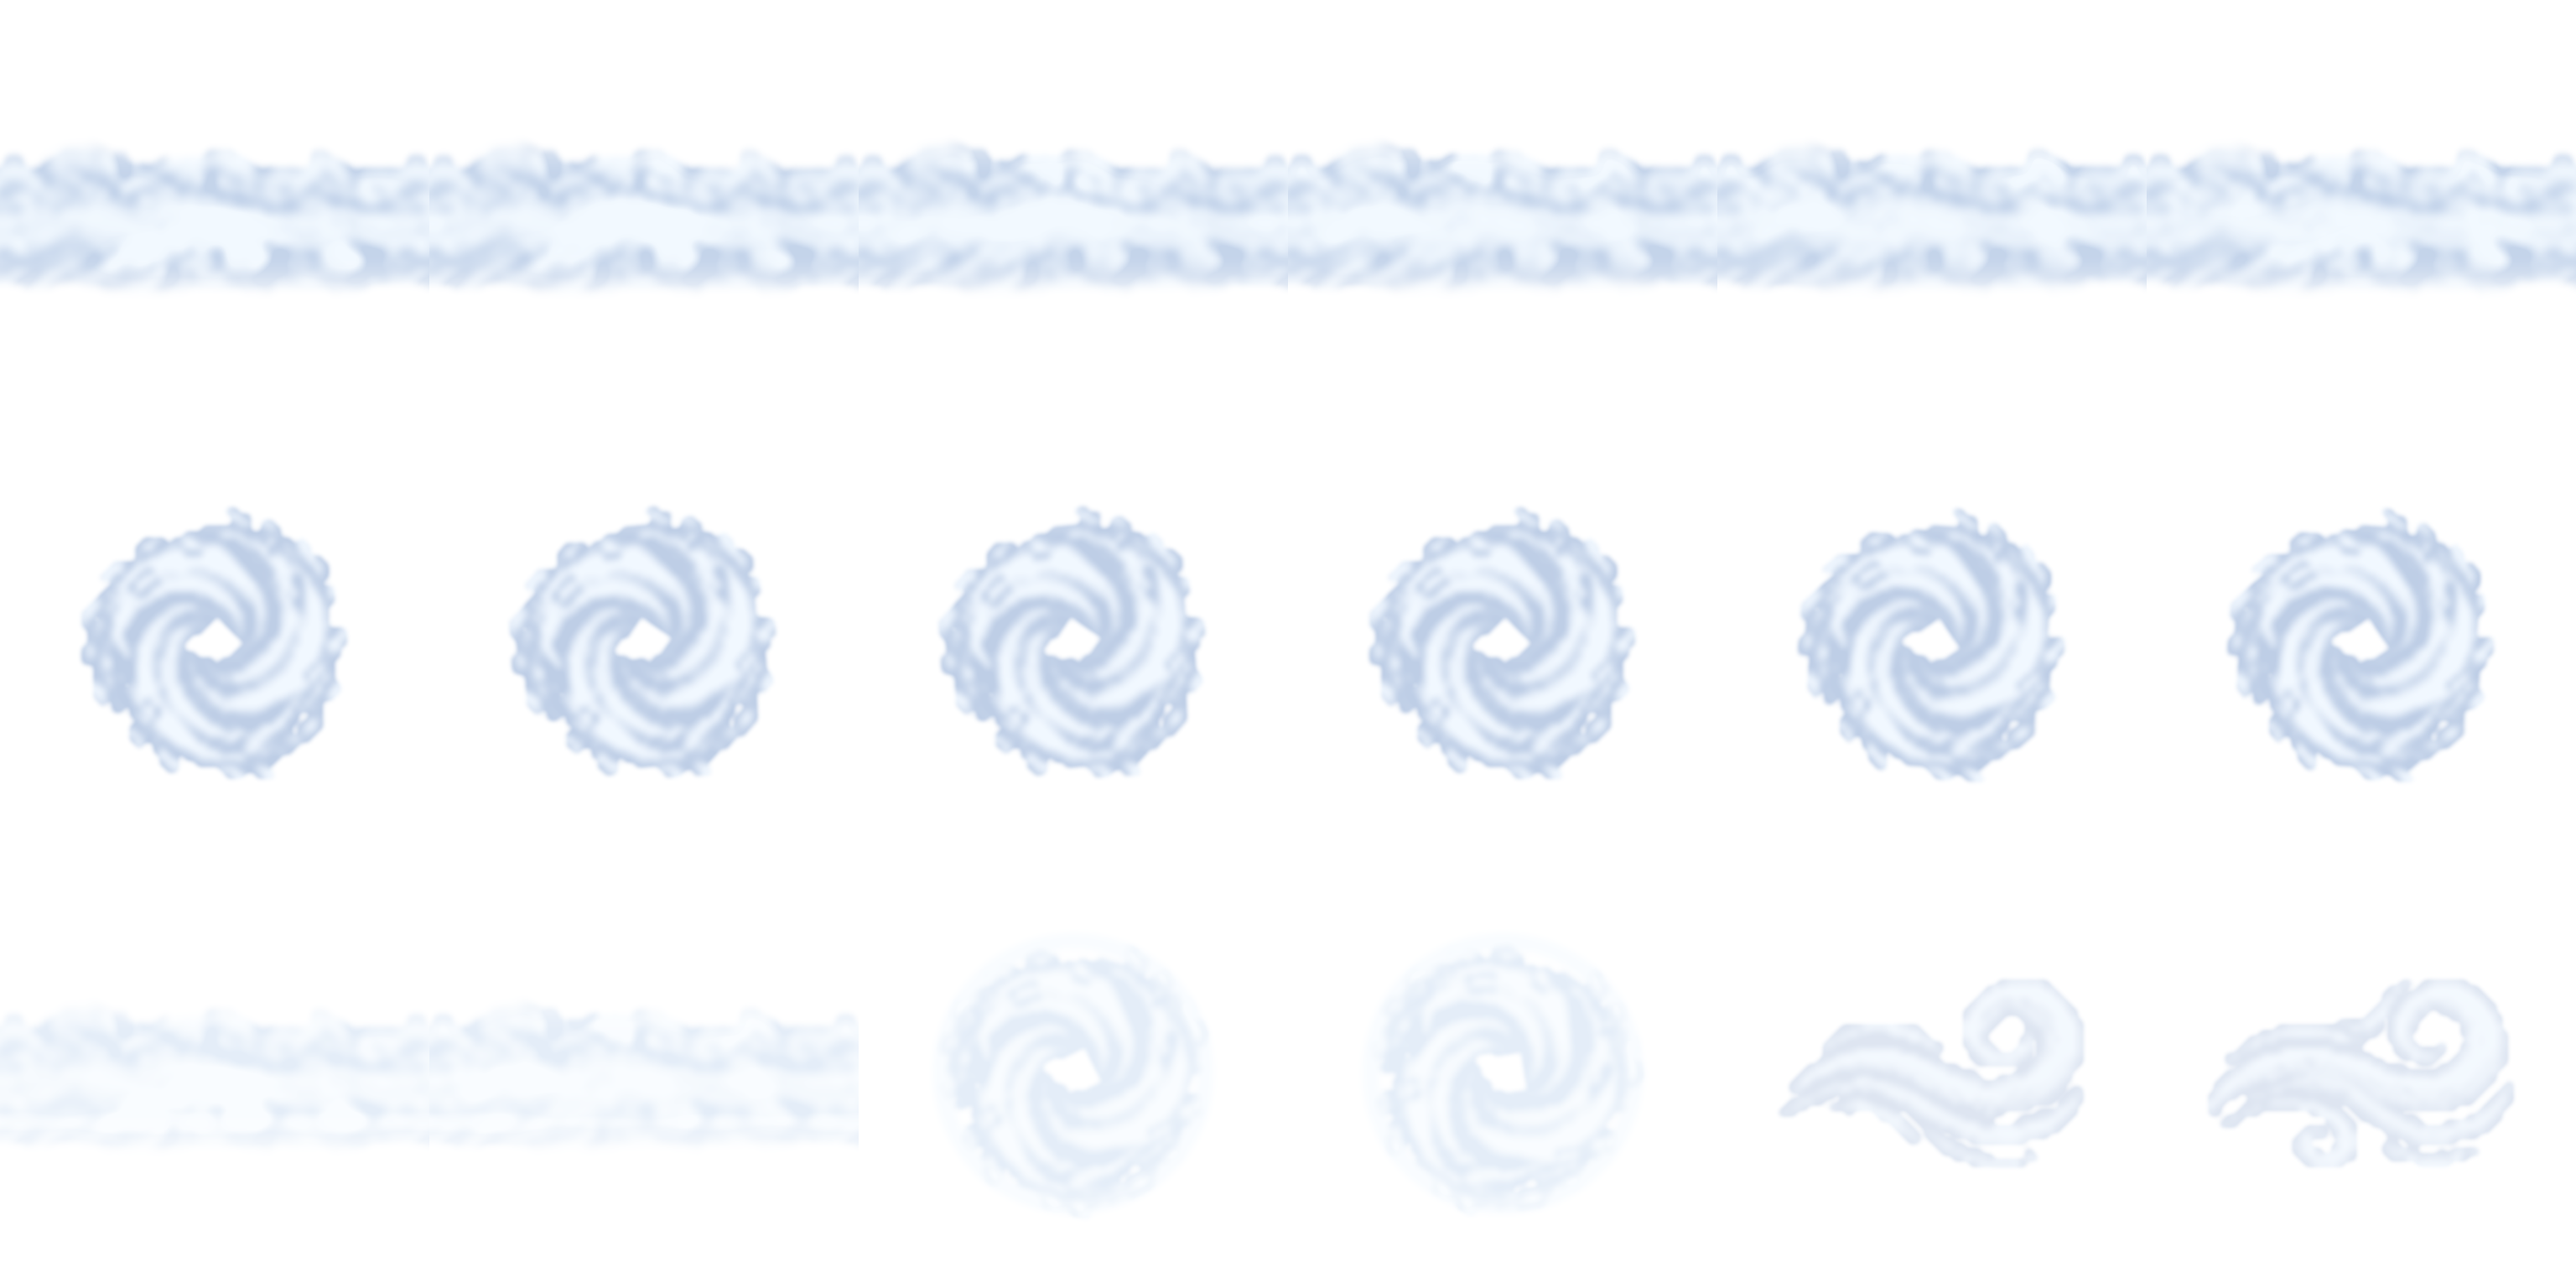
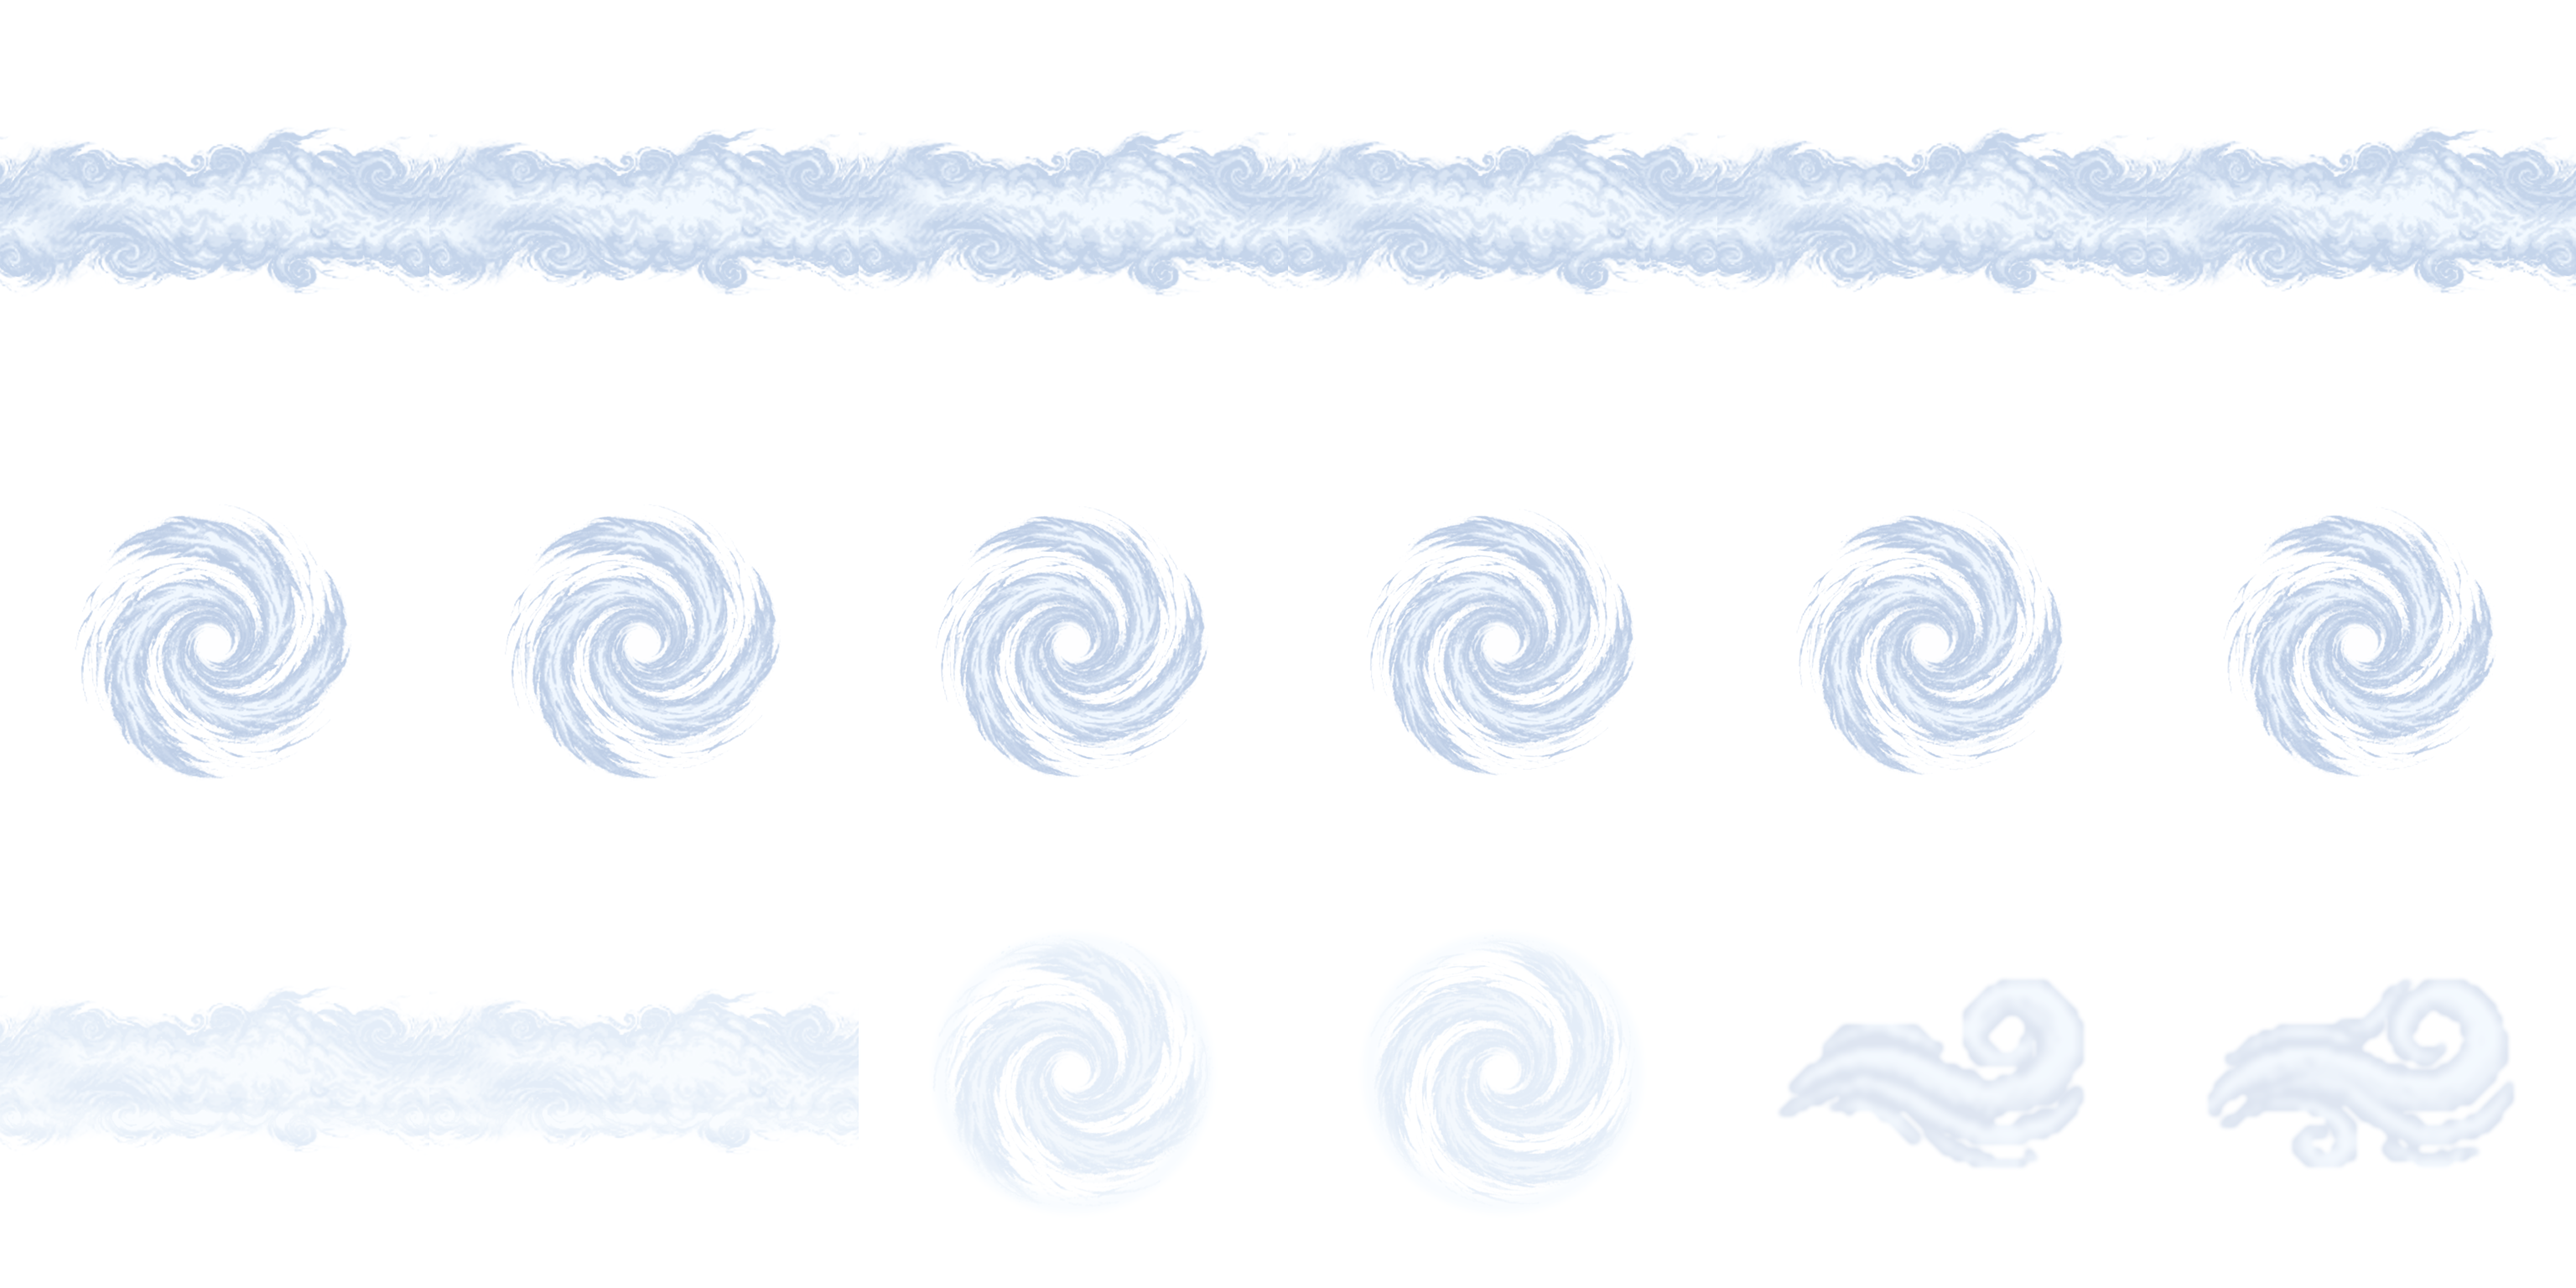
Frost storm front and snow eddy: soft painted loops (one painting each, seamless, frames never cut into each other); warnings derived from them

diff --git a/Pause/Assets/Art/Worlds/Frost/backdrop_v3/src~/frost_redraw/build_soft_weather.py b/Pause/Assets/Art/Worlds/Frost/backdrop_v3/src~/frost_redraw/build_soft_weather.py
@@ -24,6 +24,9 @@ What this builds (no new art: every drawing is the approved pick's, found by its
   * animated loops are built from ONE drawing so consecutive frames differ only a little and frame 5 -> frame 0 closes the loop:
     the front "boils" (three soft noise fields breathe in and out on 6 phases), the eddy twists (inner arms lead, outer lag, on 6
     phases); nothing pops.
+  * wx_hazard rows 0 - 1 (2026-11, user-approved): the storm front and the snow eddy are now the PAINTED loops sources/wxp_front.png /
+    sources/wxp_eddy.png (6 frames each, see loop_frames), toned with the same ice ramp at the same peak alpha 144; row 2's front / eddy
+    warnings are derived from those frames. front_tile / boil_frames / eddy_base / twist (the pick-derived loops) are kept for reference.
 
 Sheet layouts (wx_hazard / wx_ambient keep their sizes: WeatherArtTest / HazardArt / WeatherArt address them; weather doubles to
 2048, imported uncapped there by WorldBackdropImport.IsFrostSoftWeather; WeatherArtTest.FrostSoftSheets guards the gutters):
@@ -348,9 +351,61 @@ def ring(H, W, radius, width):
 # stronger (96) to stay as readable (HazardVisuals still draws it at .35 - .9 of that, rising as the hazard nears)
 WARN_PEAK = 96 / 255
 
+# The user-approved painted loops (2026-11, PixelLab paintings finished soft; scratchpad provenance wxp/made.json): each a 2880 x 480 strip
+# of 6 frames of 480 px side by side, straight RGBA. The storm front's frames are each horizontally seamless (column 479 continues into
+# column 0) and loop 5 -> 0; the snow eddy's frames are one swirl turning, centred, loop 5 -> 0.
+#   sources/wxp_front.png  <- out2/bd_frost_wxp_front/r1_0.png
+#   sources/wxp_eddy.png   <- out2/bd_frost_wxp_eddy/r1_1.png
+FRONT_VSCALE = 1.0      # the painted band's height as painted (its half-opacity body measures about the old front's: see the report)
+
+
+def loop_frames(name, n=6):
+    """The 6 frames of an approved loop strip, premultiplied float, each 480 x 480."""
+    a = np.asarray(Image.open(HERE / "sources" / f"{name}.png").convert("RGBA")).astype(np.float64) / 255.0
+    w = a.shape[1] // n
+    return [premul(a[:, k * w:(k + 1) * w]) for k in range(n)]
+
+
+def front_loop(C):
+    """The storm front's 6 frames at the content size `C` (width untouched: each frame stays seamless), scaled vertically by
+    FRONT_VSCALE about its centre. Returns (frames, band top, band bottom) - the band = the rows any frame draws in."""
+    frames = []
+    for f in loop_frames("wxp_front"):
+        if f.shape[1] != C:
+            raise ValueError(f"front frame is {f.shape[1]} px wide, the content is {C}")
+        h = int(round(f.shape[0] * FRONT_VSCALE))
+        if h != f.shape[0]:
+            f = resize(f, C, h)
+            out = np.zeros((C, C, 4))
+            if h >= C:
+                y = (h - C) // 2
+                out = f[y:y + C]
+            else:
+                y = (C - h) // 2
+                out[y:y + h] = f
+            f = out
+        frames.append(f)
+    on = np.nonzero(np.max([f[..., 3].max(1) for f in frames], 0) > 1.0 / 255)[0]
+    return frames, int(on.min()), int(on.max()) + 1
+
+
+def eddy_loop(C, D):
+    """The snow eddy's 6 frames, all scaled by one factor so the swirl (its widest extent over the loop) is `D` px across, centred
+    in the `C` px content area (the same centre on every frame: the loop does not wobble)."""
+    frames = loop_frames("wxp_eddy")
+    m = np.max([f[..., 3] for f in frames], 0) > 1.0 / 255
+    ys, xs = np.nonzero(m)
+    side = max(ys.max() + 1 - ys.min(), xs.max() + 1 - xs.min())
+    k = D / side
+    out = []
+    for f in frames:
+        n = int(round(f.shape[0] * k))
+        out.append(place_centre(resize(f, n, n), C, C))
+    return out
+
 
 def build_wx_hazard():
-    pick = src("wx_hazard")
+    pick = src("wx_hazard")       # row 2's gust curls (cols 4-5) still come from the PixelLab pick
     P, g = 512, GUTTER
     C = P - 2 * g
     sheet = np.zeros((1536, 3072, 4))
@@ -364,41 +419,41 @@ def build_wx_hazard():
             sheet[y0:y0 + C, x0 - g:x0] = straight[:, C - g:]
             sheet[y0:y0 + C, x0 + C:x0 + C + g] = straight[:, :g]
 
-    # row 0: the blizzard front loop (seamless horizontal tiles, boiling on 6 phases); peak alpha 144 as before
-    front = front_tile(pick, C)
-    hh = int(round(C * .47))
-    top = (C - hh) // 2
+    # row 0: the storm front loop (the approved painting: 6 seamless horizontal tiles); peak alpha 144 as before
+    fronts, b0, b1 = front_loop(C)
+    top, hh = b0, b1 - b0
     yy = np.arange(C).astype(float)
-    rim = (smoothstep(top - 10, top + hh * .3, yy) * smoothstep(top + hh + 10, top + hh * .7, yy))[:, None]   # soft top / bottom
-    for k, f in enumerate(boil_frames(front)):
+    # soft top / bottom: the painting's own soft edges kept (full from 24 px inside the band), a safety fade to 0 just past it, so a
+    # tile's top / bottom content rows are always clear
+    rim = (smoothstep(top - 12, top + 24, yy) * smoothstep(top + hh + 12, top + hh - 24, yy))[:, None]
+    for k, f in enumerate(fronts):
         d = ice(f, 144 / 255, lo=.04, hi=.70, shade=(122, 156, 206), light=(232, 244, 255), lift=.25)
         d[..., 3] *= rim
         put(0, k, d, wrap=True)
 
-    # row 1: the whiteout eddy loop (the code turns it continuously; the frames add an inner twist on 6 phases), 0.70 of the unit
+    # row 1: the snow eddy loop (the approved painting; the code turns it continuously on top), 0.70 of the unit
     D = int(round(C * .70))
-    eddy = place_centre(eddy_base(pick, D), C, C)
-    for k in range(6):
-        e = twist(eddy, 14, k)
+    eddies = eddy_loop(C, D)
+    for k, e in enumerate(eddies):
         d = ice(e, 144 / 255, lo=.04, hi=.72, shade=(118, 150, 200), light=(230, 242, 255), lift=.2)
         d[..., 3] *= edge_window(C, C, 12)
         put(1, k, d)
 
     # row 2: the warnings (WARN_PEAK: faint and readable, a ghost of the body with a brighter leading edge / rim)
-    #   cols 0-1: the front's warning (tiles across the top of the view), two phases of the boil
-    #   cols 2-3: the eddy's warning (a soft ring where it forms, around a faint eddy), two angles
+    #   cols 0-1: the front's warning (tiles across the top of the view), loop frames 0 and 3
+    #   cols 2-3: the eddy's warning (a soft ring where it forms, around a faint eddy), loop frames 0 and 3 at two angles
     #   cols 4-5: the pick's two gust curls (not used by Frost's hazards; drawn soft for completeness)
     yy = np.arange(C)[:, None].astype(float)
     lead = np.exp(-((yy - (top + hh * .76)) / 16.0) ** 2)                 # the wall's leading (lower) edge
     for k in range(2):
-        f = boil_frames(front)[k * 3].copy()
+        f = fronts[k * 3].copy()
         f[..., 3] = np.clip(f[..., 3] * .75 + lead * .55 * (f[..., 3] > .02), 0, 1)
         f[..., :3] = np.clip(f[..., :3] * .75 + lead[..., None] * .55 * (f[..., 3:4] > .02), 0, 1)
         d = ice(f, WARN_PEAK, lo=.04, hi=.6, shade=(150, 184, 226), light=(240, 248, 255), lift=.35)
         d[..., 3] *= rim
         put(2, k, d, wrap=True)
     for k in range(2):
-        e = rotate(eddy, -18 * (k + 1)).copy()
+        e = rotate(eddies[k * 3], -18 * (k + 1)).copy()
         rg = ring(C, C, D * .47, 12.0)
         e[..., 3] = np.clip(e[..., 3] * .7 + rg * .6, 0, 1)
         e[..., :3] = np.clip(e[..., :3] * .7 + rg[..., None] * .6, 0, 1)
